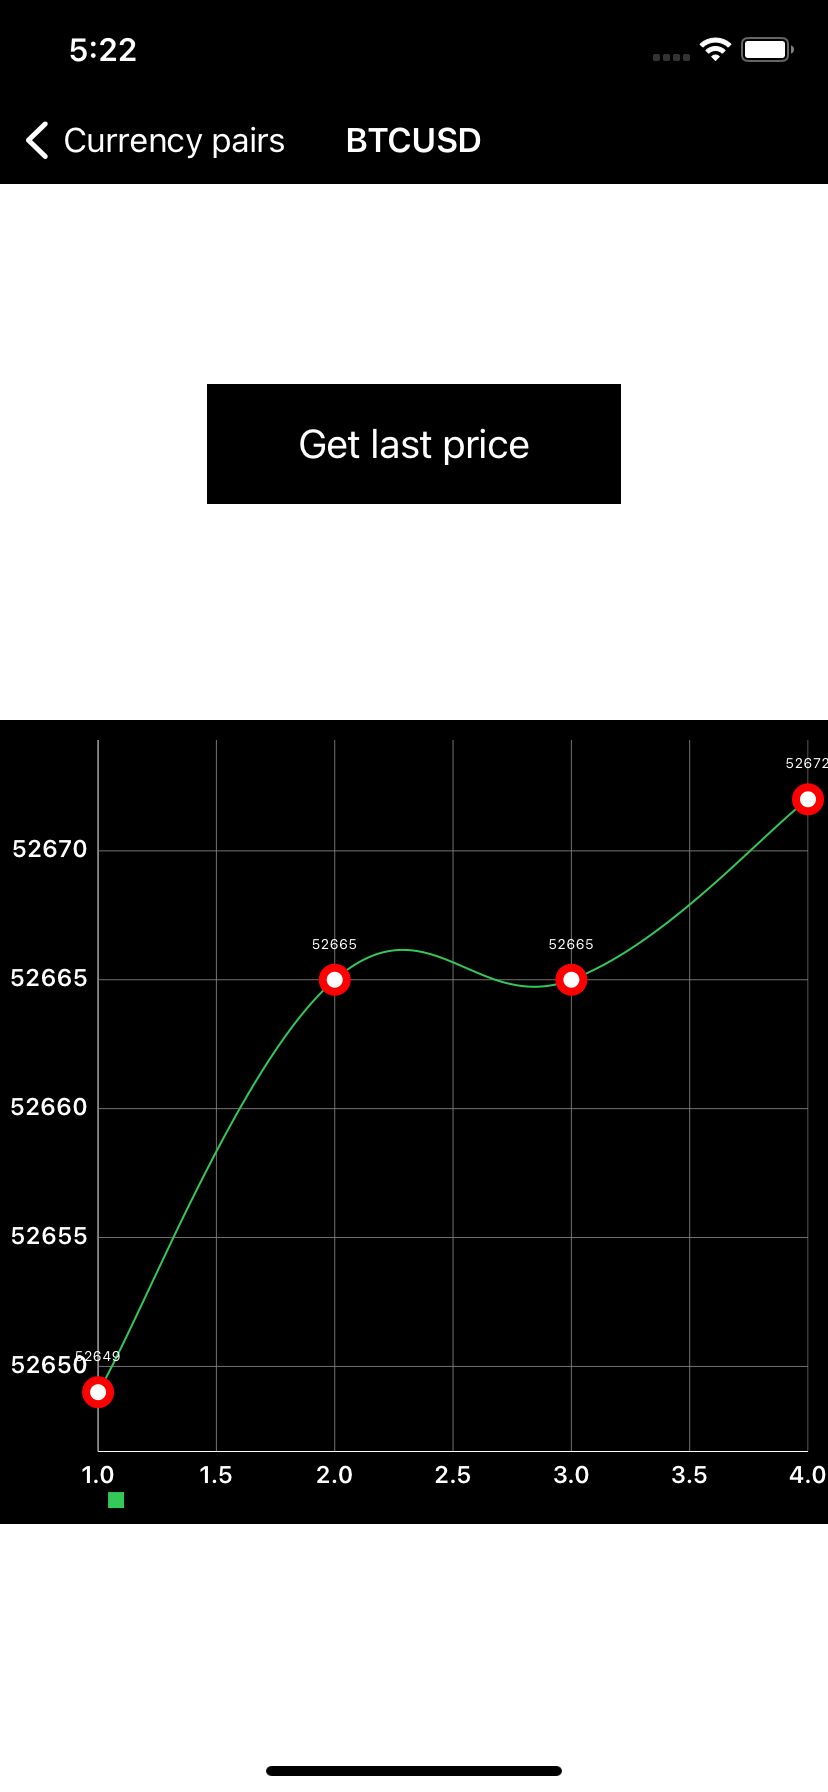
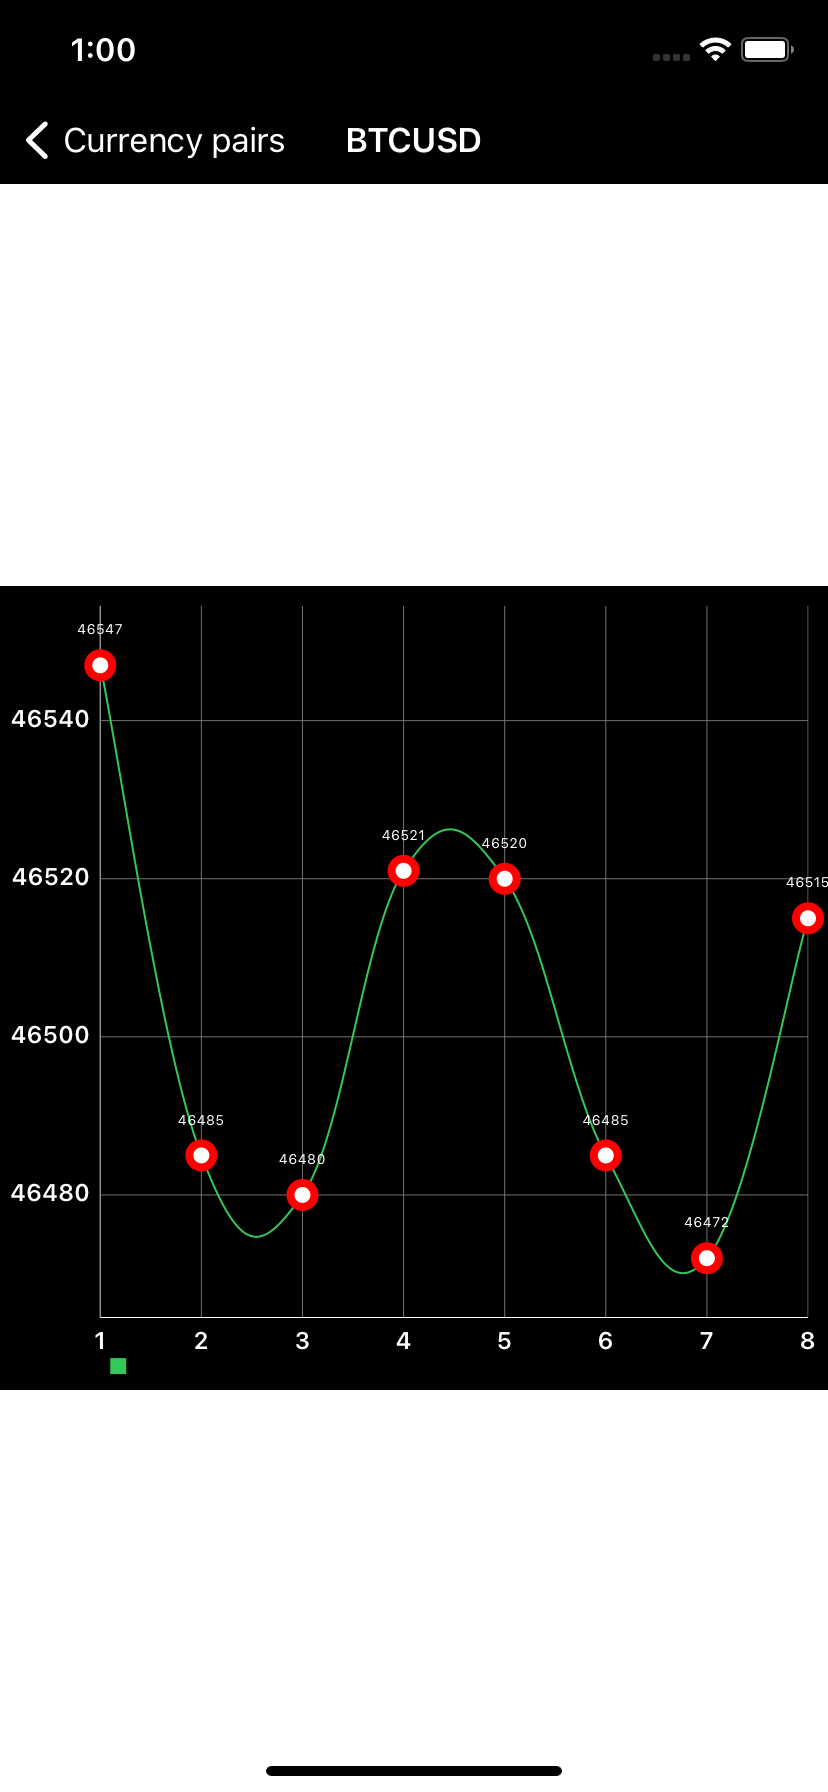
some small changes

diff --git a/CurrencyChart/Chart/ChartViewController.swift b/CurrencyChart/Chart/ChartViewController.swift
@@ -11,13 +11,10 @@ import Starscream
 
 class ChartViewController: UIViewController {
     
-    // Chart
     var pair = String()
-    private let contentView = ChartView()
-    private var passMessageButton: UIButton { contentView.passMessageButton }
+    private lazy var contentView = ChartView()
     private var counter = 0.0
 
-    // WebSocket
     private let urlString = "wss://api-pub.bitfinex.com/ws/2"
     private lazy var socket: WebSocket = {
         var request = URLRequest(url: URL(string: urlString)!)
@@ -53,11 +50,9 @@ class ChartViewController: UIViewController {
         
         socket.delegate = self
         socket.connect()
-                
-        passMessageButton.addTarget(self, action: #selector(sendMessageToWebSocket), for: .touchUpInside)
     }
     
-    @objc private func sendMessageToWebSocket() {
+    private func sendMessageToWebSocket() {
         let msgDic = [
             "event": "subscribe",
             "channel": "ticker",
@@ -80,6 +75,8 @@ extension ChartViewController: WebSocketDelegate {
         switch event {
         case .connected:
             print("\nWebsocket is connected")
+            sendMessageToWebSocket()
+            
         case .disconnected(let reason, let code):
             print("\nWebsocket is disconnected: \(reason) with code: \(code)")
             
@@ -91,7 +88,7 @@ extension ChartViewController: WebSocketDelegate {
             else {
                 return
             }
-            let currencyPair = jsonArray.flattenedToDoubleArray()
+            let currencyPair: [Double] = jsonArray.flattenedToArray()
             guard let lastPrice = currencyPair[safe: 7] else { return }
             print("Last price of \(pair): \(lastPrice)")
             counter += 1

diff --git a/CurrencyChart/Chart/Views/ChartView.swift b/CurrencyChart/Chart/Views/ChartView.swift
@@ -32,16 +32,7 @@ class ChartView: UIView {
                 
         return lineChart
     }()
-    
-    private(set) lazy var passMessageButton: UIButton = {
-        let button = UIButton()
-        button.setTitle("Get last price", for: .normal)
-        button.setTitleColor(.white, for: .normal)
-        button.titleLabel?.font = .systemFont(ofSize: 20)
-        button.backgroundColor = .black
-        return button
-    }()
-    
+        
     override init(frame: CGRect) {
         super.init(frame: frame)
         addSubviews()
@@ -54,23 +45,13 @@ class ChartView: UIView {
     }
         
     private func addSubviews() {
-        addSubview(passMessageButton)
         addSubview(lineChart)
     }
     
     private func makeConstraints() {
-        passMessageButton.snp.makeConstraints { make in
-            make.width.equalToSuperview().dividedBy(2)
-            make.height.equalTo(60)
-            make.centerX.equalTo(safeAreaLayoutGuide)
-            make.top.equalTo(safeAreaLayoutGuide).offset(100)
-        }
-        
         lineChart.snp.makeConstraints { make in
-            make.leading.equalTo(safeAreaLayoutGuide)
+            make.leading.trailing.centerY.equalToSuperview()
             make.height.equalToSuperview().dividedBy(2)
-            make.bottom.equalTo(safeAreaLayoutGuide).offset(-100)
-            make.centerX.equalTo(passMessageButton.snp.centerX)
         }
     }
     

diff --git a/CurrencyChart/Extensions/CollectionExtensions.swift b/CurrencyChart/Extensions/CollectionExtensions.swift
@@ -15,36 +15,16 @@ extension Collection {
 }
 
 extension Array {
-    
-    func flattenedToStringArray() -> [String] {
-        var myArray = [String]()
-        for element in self {
-            if let element = element as? String {
-                myArray.append(element)
-            }
-            if let element = element as? [Any] {
-                let result = element.flattenedToStringArray()
-                for i in result {
-                    myArray.append(i)
-                }
-            }
-        }
-        return myArray
-    }
 
-    func flattenedToDoubleArray() -> [Double] {
-        var myArray = [Double]()
-        for element in self {
-            if let element = element as? Double {
-                myArray.append(element)
+    func flattenedToArray<ReturnType>() -> [ReturnType] {
+        reduce([]) { result, element in
+            if let value = element as? ReturnType {
+                return result + [value]
             }
-            if let element = element as? [Any] {
-                let result = element.flattenedToDoubleArray()
-                for i in result {
-                    myArray.append(i)
-                }
+            guard let values = element as? [ReturnType] else {
+                return result
             }
+            return result + values
         }
-        return myArray
     }
 }

diff --git a/CurrencyChart/PairsList/PairsDataProvider.swift b/CurrencyChart/PairsList/PairsDataProvider.swift
@@ -16,11 +16,9 @@ class PairsDataProvider {
         AF.request(urlString)
             .validate()
             .responseJSON { response in
-                guard let data = response.value else { return }
-                
-                let dataArray = Array(arrayLiteral: data)
-                let stringArray = dataArray.flattenedToStringArray()
-                completion(stringArray)
+                guard let data = response.value as? [[String]] else { return }
+                let dataArray: [String] = data.flatMap { $0 }
+                completion(dataArray)
             }
     }
 }

diff --git a/CurrencyChart/PairsList/PairsViewController.swift b/CurrencyChart/PairsList/PairsViewController.swift
@@ -111,7 +111,6 @@ extension PairsViewController: UISearchBarDelegate {
     }
     
     func searchBarCancelButtonClicked(_ searchBar: UISearchBar) {
-        // возвращаем начальный запрос
         pairsModel = pairsModelsSaved
         tableView.reloadData()
     }
